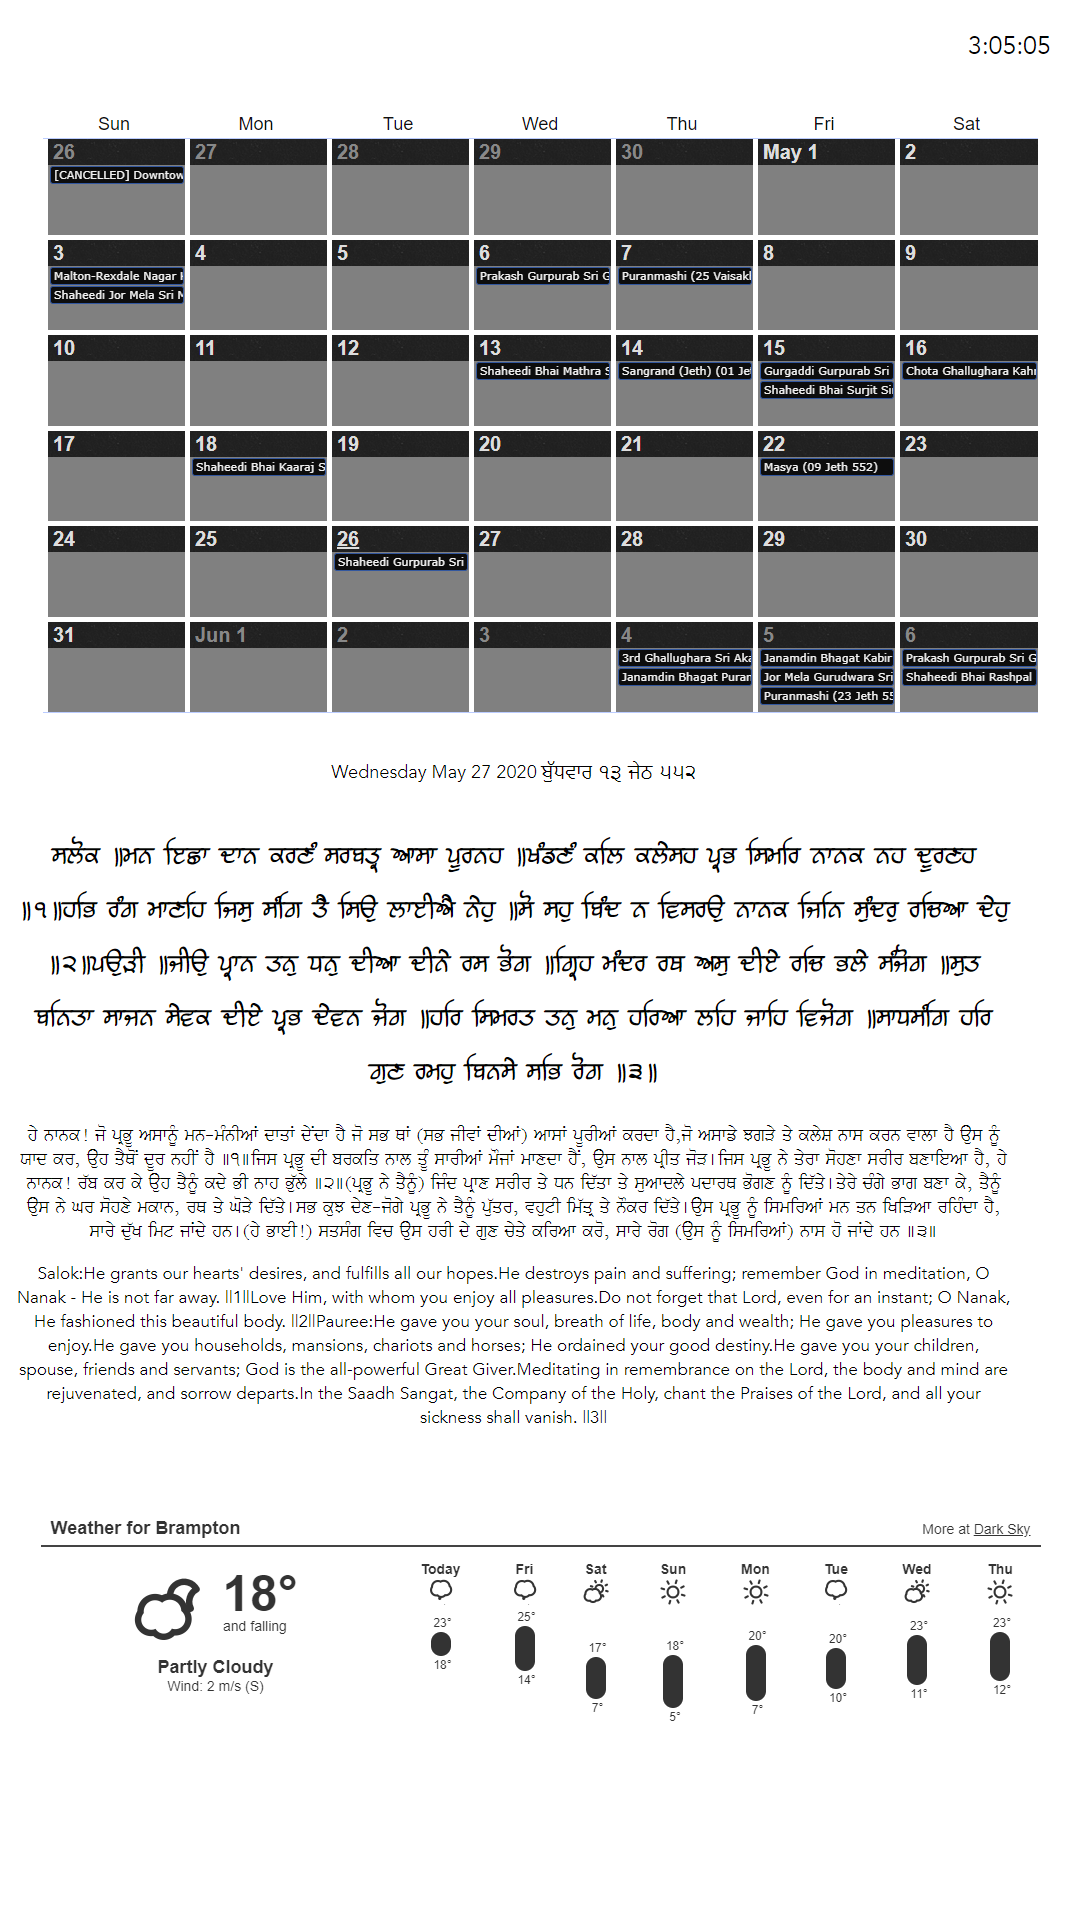
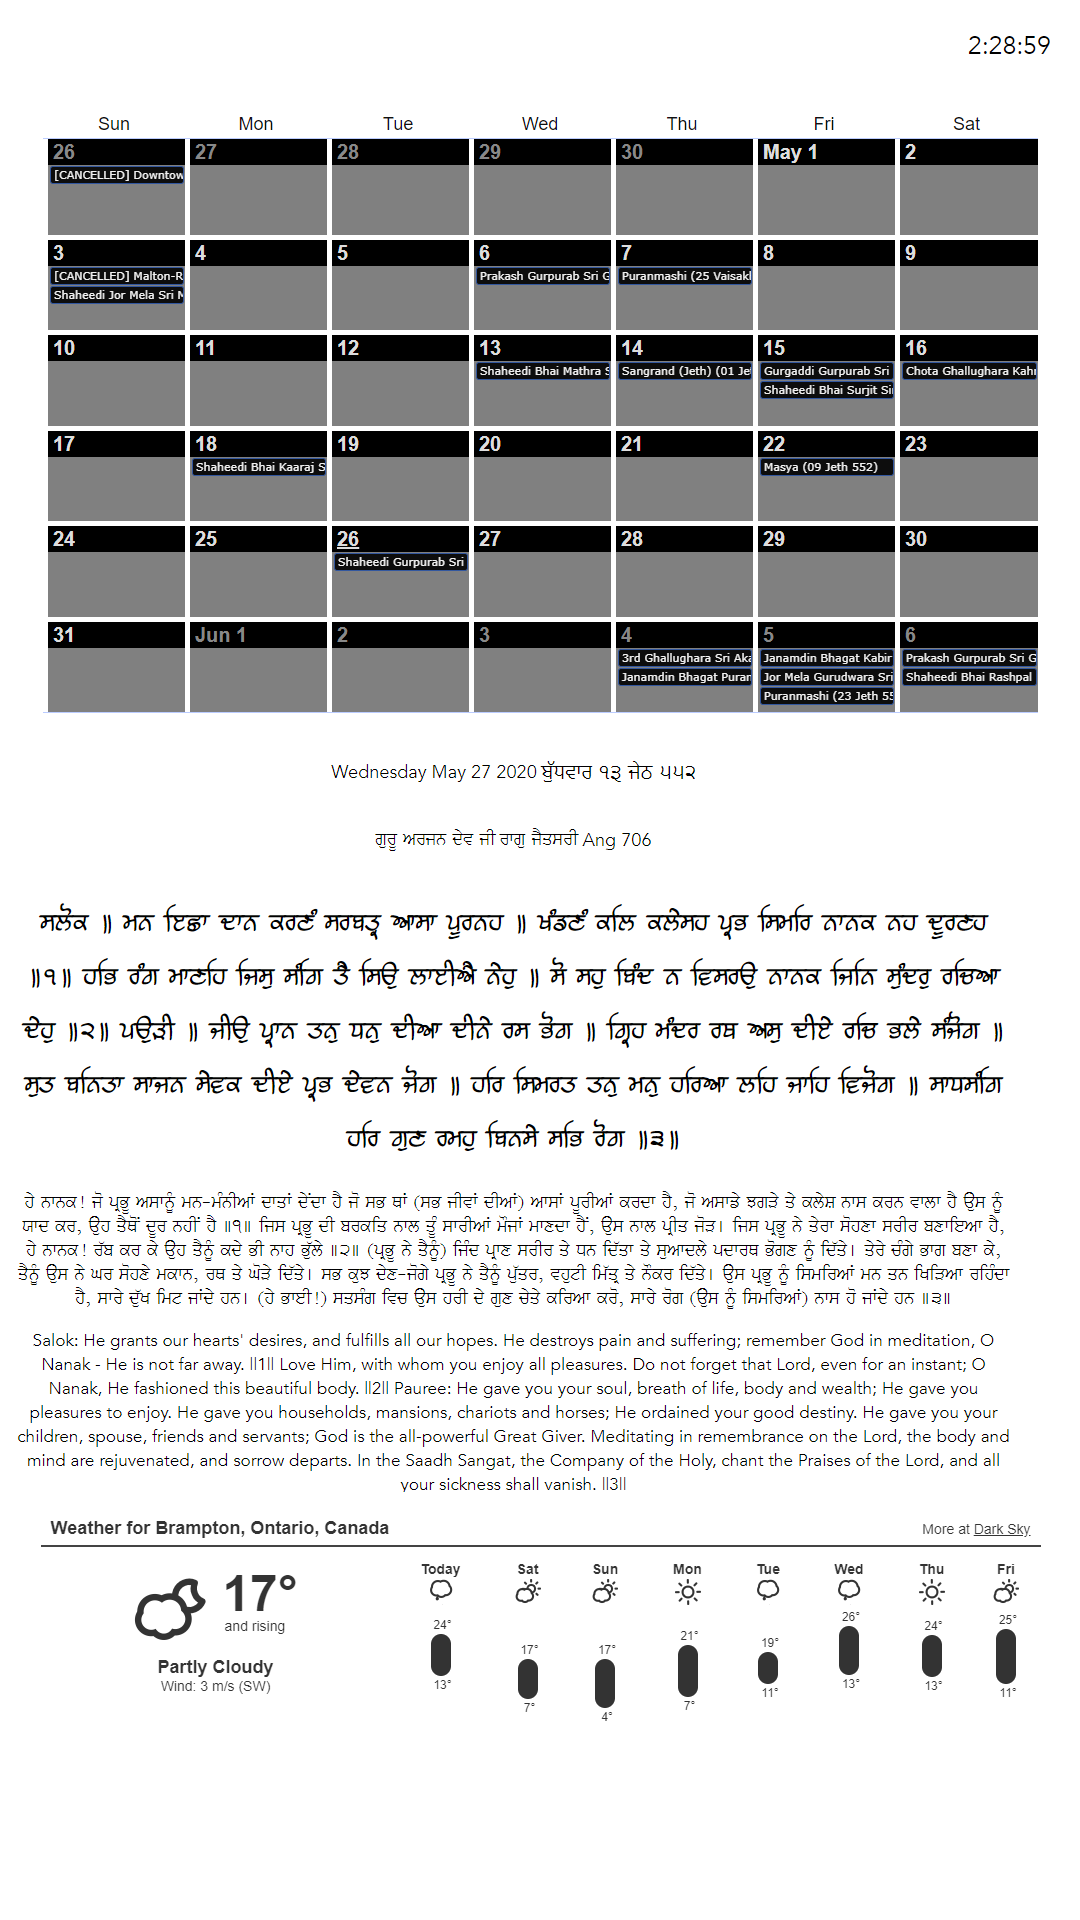
Add files via upload
Added Hukamnama description (Guru Sahib, Raag, Ang) and minor colour adjustment

diff --git a/hukamnama/hukam.js b/hukamnama/hukam.js
@@ -10,6 +10,12 @@ $.getJSON(
           
         $('.ndate').append(ndate)
         
+        $('.ang').append("Ang " + data.hukamnamainfo.pageno)
+        $('.raag').append(data.hukamnamainfo.raag.akhar)
+        $('.writer').append(data.hukamnamainfo.writer.akhar)
+
+        
+        
         
         
         var line0g = data.hukamnama[0].line.gurmukhi.akhar;
@@ -24,7 +30,7 @@ $.getJSON(
                     
                     y=x[i]
                    
-            $('.gurbani').append(y.gurmukhi.akhar);
+            $('.gurbani').append(y.gurmukhi.akhar + " ");
                 
             }
         
@@ -35,7 +41,7 @@ $.getJSON(
                     
                     y=x[i]
                    
-            $('.punjabi').append(y.translation.punjabi.default.akhar);
+            $('.punjabi').append(y.translation.punjabi.default.akhar + " ");
                 
             }
         
@@ -45,7 +51,7 @@ $.getJSON(
                     
                     y=x[i]
                    
-            $('.english').append(y.translation.english.default);
+            $('.english').append(y.translation.english.default + " ");
                 
             }
                 

diff --git a/hukamnama/hukamstyle.css b/hukamnama/hukamstyle.css
@@ -34,6 +34,24 @@
     font-size: 1.8vw;
 }
 
+.ang {
+    font-family: "Avenir";
+    text-align: center;
+    font-size: 1.8vw;
+}
+
+.writer {
+    font-family: "GurbaniAkhar";
+    text-align: center;
+    font-size: 1.8vw;
+}
+
+.raag {
+    font-family: "GurbaniAkhar";
+    text-align: center;
+    font-size: 1.8vw;
+}
+
 
 
 table {
@@ -43,3 +61,20 @@ table {
     
 }
 
+
+.table{
+    display:flex;
+    justify-content:center;
+}
+
+.tr{
+    display:flex;
+    justify-content:center;
+
+}
+
+.td{
+    justify-content:center;
+    width: "20%";
+
+}

diff --git a/hukamnama/hukamnama.html b/hukamnama/hukamnama.html
@@ -16,6 +16,18 @@
                 <td><p class=ndate></td>
             </tr>
         </table>
+        <table>
+        <tr>
+            
+            
+            <td><p class=writer></td>
+                <td><p class=raag></td>
+                <td><p class=ang></td>
+            
+            </tr>
+        
+        
+        </table>
     <p class=gurbani></p>
     <p class=punjabi></p>
     <p class=english></p>

diff --git a/calendar/styles.css b/calendar/styles.css
@@ -72,7 +72,7 @@
   font-size: 20px!important;
   font-weight: bold!important;
   color: #DDD!important;
-  background:url(navy.jpg)!important;
+  background:url(black.jpg)!important;
   padding-top: 5px!important;
   padding-left: 5px!important;
   padding-bottom: 5px!important;
